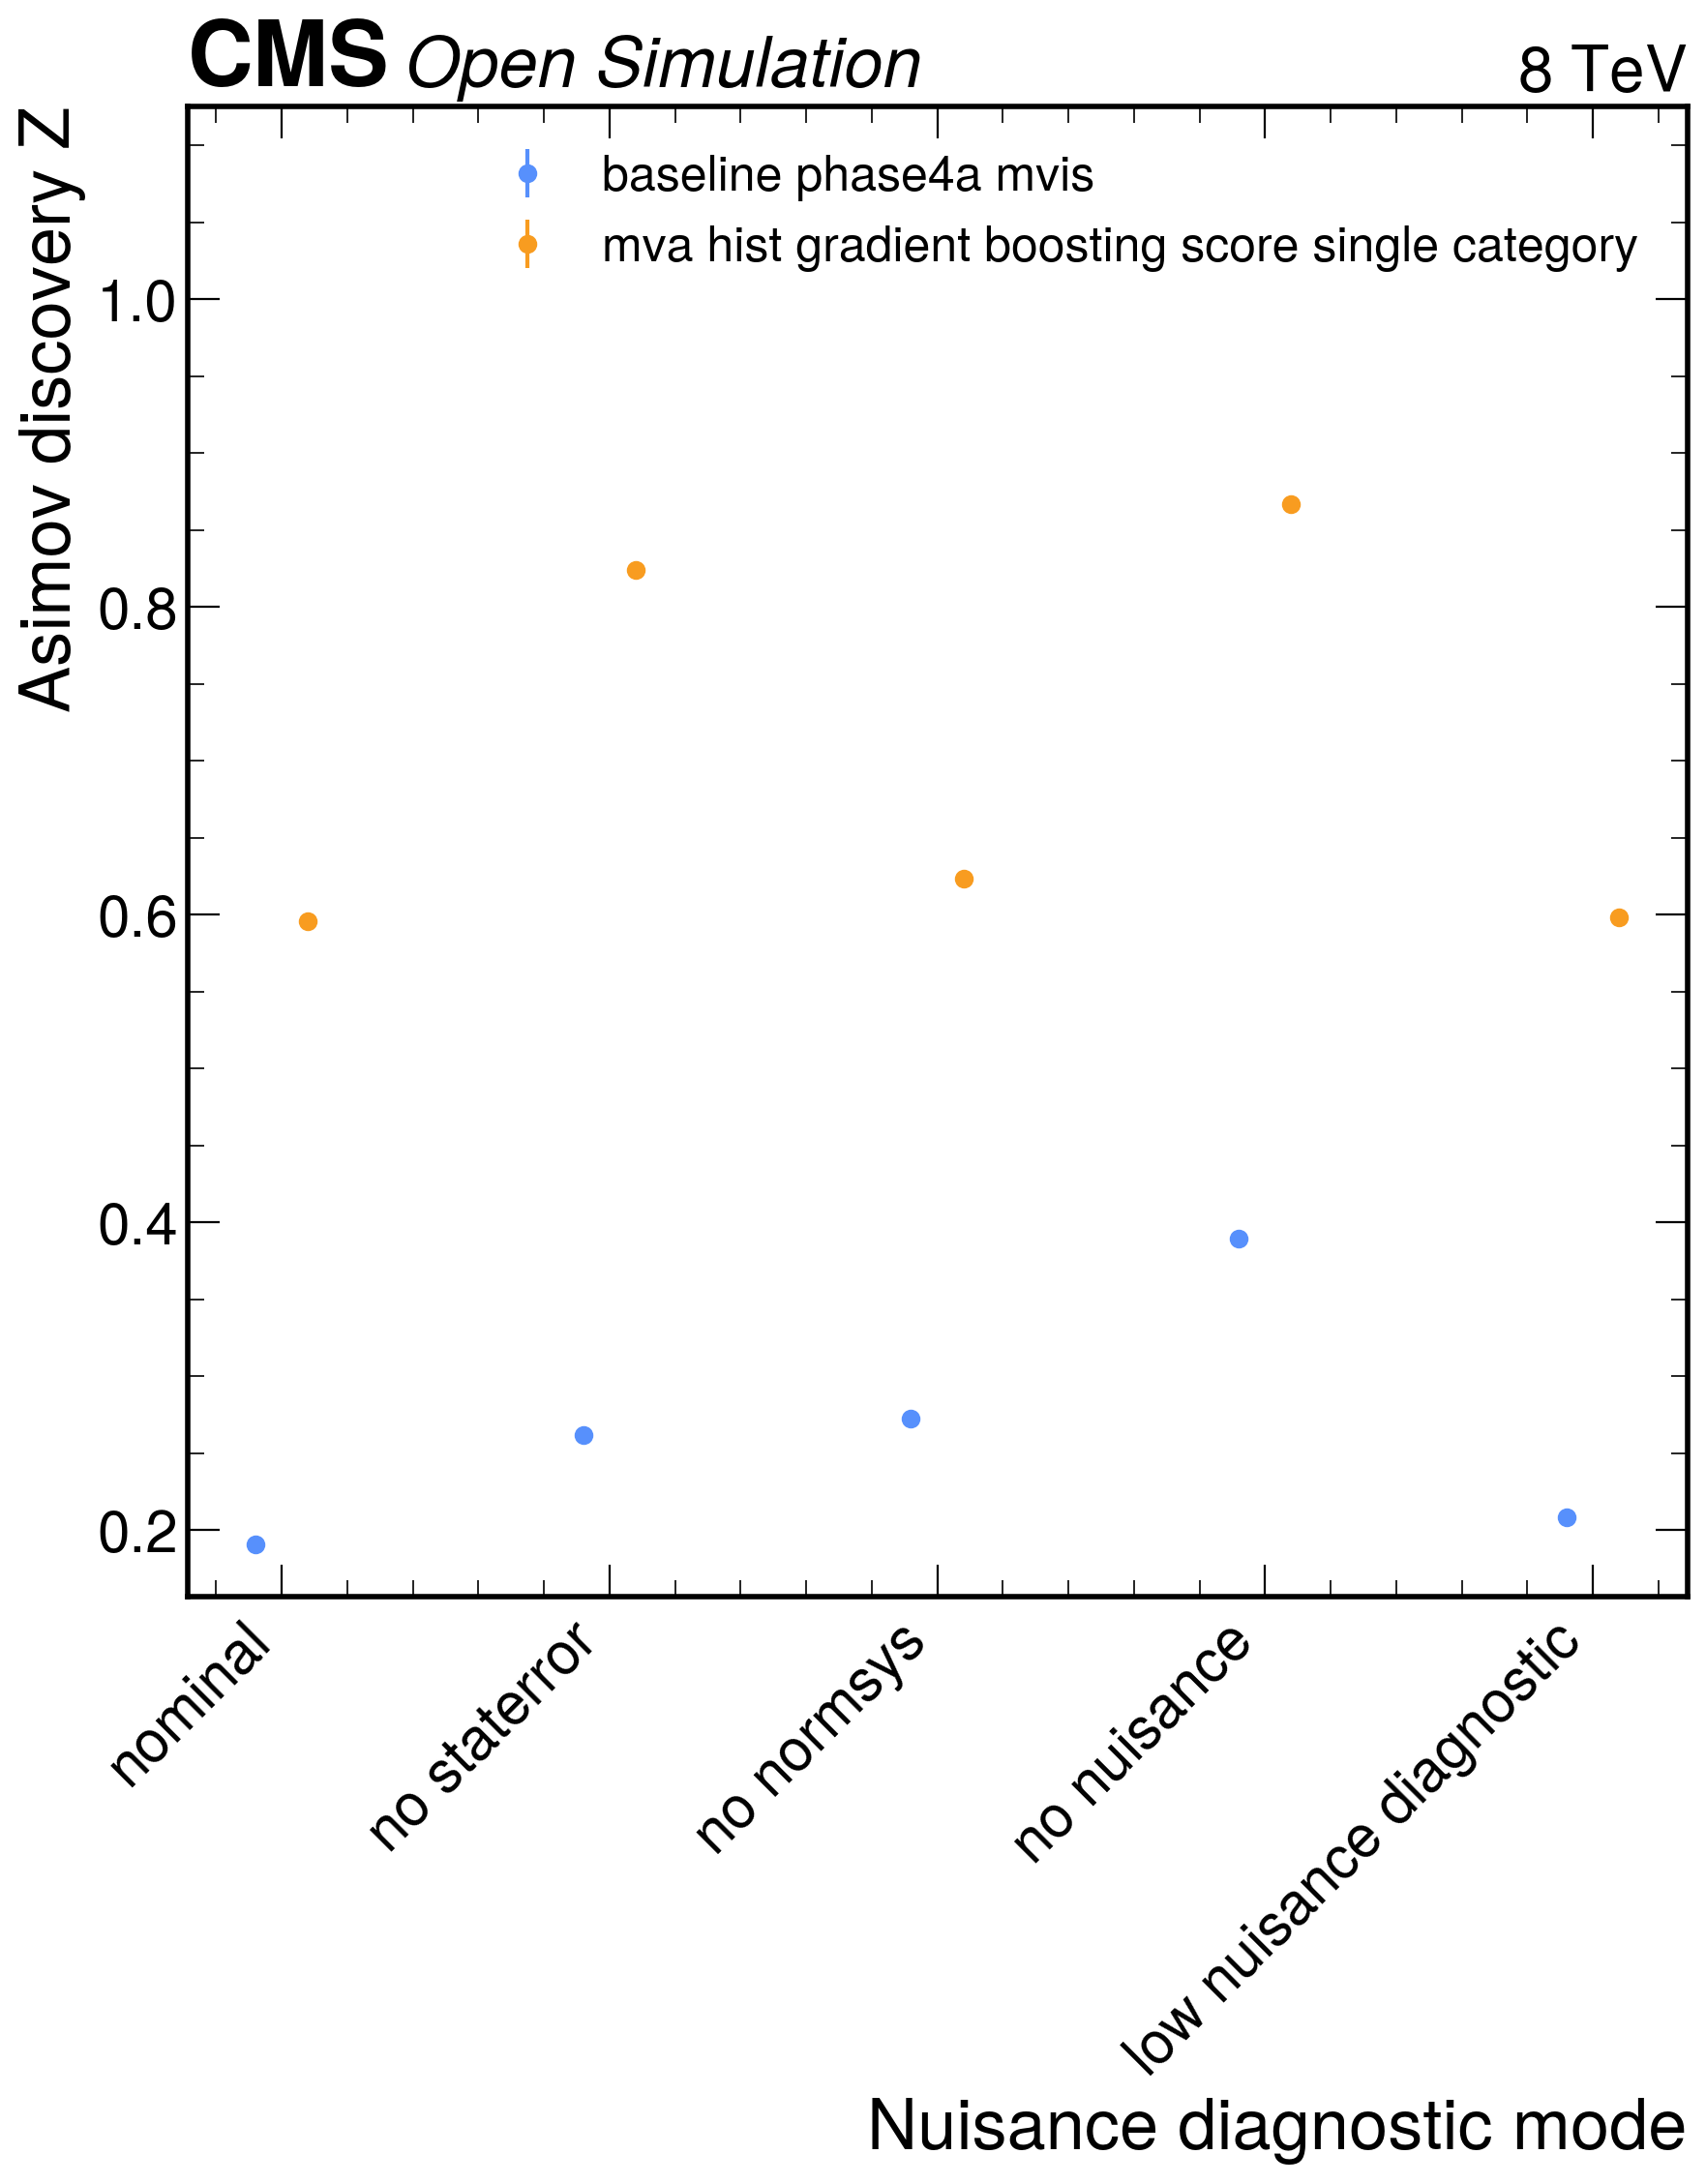
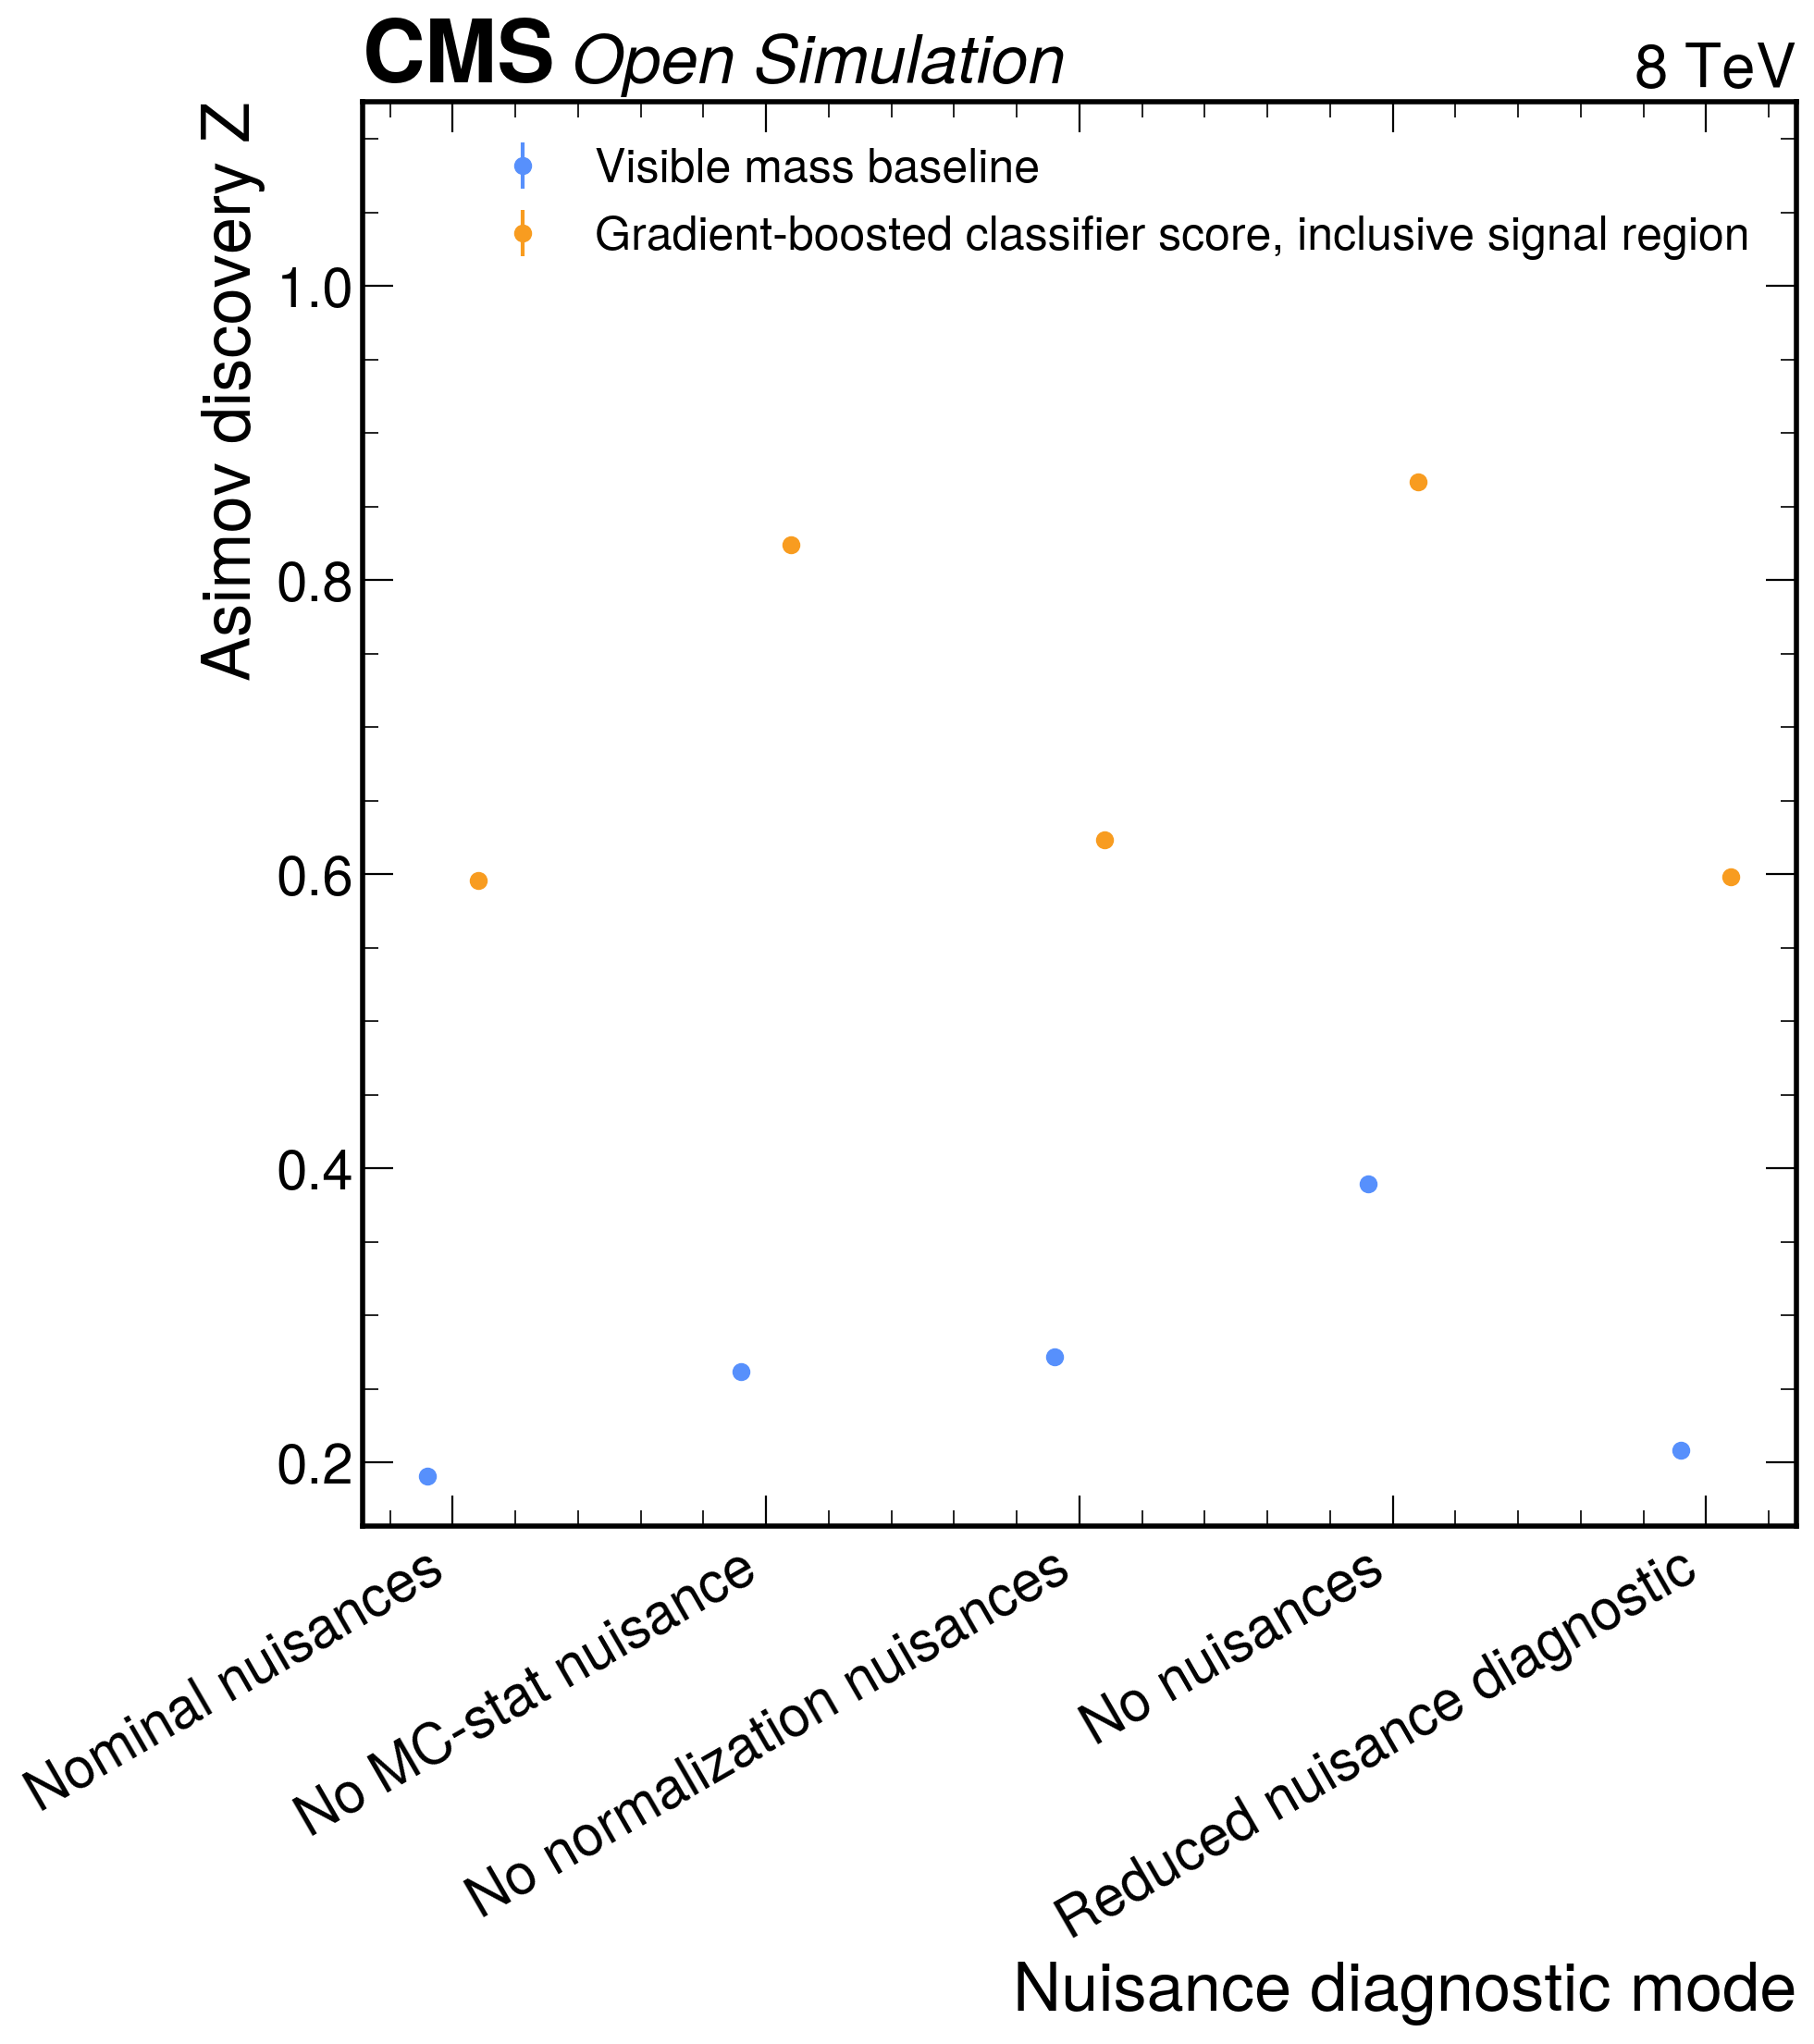
fix(phase3): polish sensitivity figures

diff --git a/phase3_selection/src/sensitivity_regression.py b/phase3_selection/src/sensitivity_regression.py
@@ -68,6 +68,19 @@ MVA_INPUTS = [
     "btag_max",
 ]
 
+MODEL_DISPLAY_LABELS = {
+    "hist_gradient_boosting": "Gradient-boosted classifier",
+    "mlp": "Neural-network classifier",
+}
+
+NUISANCE_DISPLAY_LABELS = {
+    "nominal": "Nominal nuisances",
+    "no_staterror": "No MC-stat nuisance",
+    "no_normsys": "No normalization nuisances",
+    "no_nuisance": "No nuisances",
+    "low_nuisance_diagnostic": "Reduced nuisance diagnostic",
+}
+
 
 @dataclass(frozen=True)
 class ModelSpec:
@@ -128,6 +141,42 @@ def weighted_hist(values: np.ndarray, event_weight: float, bins: np.ndarray) -> 
 
 def sanitize_category(name: str) -> str:
     return name.replace("-", "_").replace("/", "_")
+
+
+def model_display_label(name: str) -> str:
+    return MODEL_DISPLAY_LABELS.get(name, name.replace("_", " ").title())
+
+
+def spec_display_label(name: str) -> str:
+    if name == "baseline_phase4a_mvis":
+        return "Visible mass baseline"
+    if name == "baseline_addmet":
+        return "Add-MET mass baseline"
+    if name == "baseline_pt_tautau_proxy":
+        return "pT(tau tau) proxy baseline"
+    if name == "jhep_refined_mvis":
+        return "Boosted/VBF refined categories"
+    if name.startswith("mva_") and name.endswith("_score_baseline_categories"):
+        model_name = name.removeprefix("mva_").removesuffix("_score_baseline_categories")
+        return f"{model_display_label(model_name)} score, baseline categories"
+    if name.startswith("mva_") and name.endswith("_score_single_category"):
+        model_name = name.removeprefix("mva_").removesuffix("_score_single_category")
+        return f"{model_display_label(model_name)} score, inclusive signal region"
+    if name.startswith("grid_"):
+        rest = name.removeprefix("grid_mjj")
+        try:
+            mjj_cut, rest = rest.split("_deta", maxsplit=1)
+            detajj_cut, pttt_cut = rest.split("_pt", maxsplit=1)
+            return f"Dijet/boost scan, {mjj_cut} GeV, separation {detajj_cut}, boost pT {pttt_cut} GeV"
+        except ValueError:
+            return "Dijet/boost category scan"
+    if name.startswith("btag_veto_le") and name.endswith("_split"):
+        threshold = name.removeprefix("btag_veto_le").removesuffix("_split")
+        return f"Top-veto scan, max b tag <= {threshold}"
+    if name.startswith("taupt_split_"):
+        threshold = name.removeprefix("taupt_split_")
+        return f"Tau pT scan, threshold {threshold} GeV"
+    return name.replace("_", " ").title()
 
 
 def assign_baseline(selected: dict[str, np.ndarray]) -> np.ndarray:
@@ -793,21 +842,22 @@ def label(ax: plt.Axes, llabel: str = "Open Simulation") -> None:
 
 def plot_variant_summary(results: list[dict[str, Any]]) -> None:
     valid = [row for row in results if rank_key(row) >= 0]
-    top = sorted(valid, key=rank_key, reverse=True)[:12]
-    names = [row["spec"]["name"].replace("_", " ") for row in top]
+    top = sorted(valid, key=rank_key, reverse=True)[:10]
+    names = [spec_display_label(row["spec"]["name"]) for row in top]
     values = [rank_key(row) for row in top]
-    x = np.arange(len(top))
+    y = np.arange(len(top))
     fig, ax = plt.subplots(figsize=(10, 10))
-    ax.errorbar(x, values, yerr=np.zeros(len(values)), marker="o", linestyle="", color="tab:blue", label="Variant")
-    ax.axhline(0.1906097504953417, color="tab:red", linestyle="--", label="Phase 4a baseline")
-    ax.set_xticks(x)
-    ax.set_xticklabels(names, rotation=90)
-    ax.set_xlabel("Expected-only variant")
-    ax.set_ylabel("Asimov discovery Z")
-    ax.legend(fontsize="x-small", loc="upper right")
-    ymin, ymax = ax.get_ylim()
-    if ymax > ymin:
-        ax.set_ylim(ymin, ymax * 1.25)
+    ax.errorbar(values, y, xerr=np.zeros(len(values)), marker="o", linestyle="", color="tab:blue", label="Variant")
+    ax.axvline(0.1906097504953417, color="tab:red", linestyle="--", label="Phase 4a baseline")
+    ax.set_yticks(y)
+    ax.set_yticklabels(names)
+    ax.invert_yaxis()
+    ax.set_xlabel("Asimov discovery Z")
+    ax.set_ylabel("Expected-only variant")
+    ax.legend(fontsize="x-small", loc="lower right")
+    xmin, xmax = ax.get_xlim()
+    if xmax > xmin:
+        ax.set_xlim(xmin, xmax * 1.10)
     label(ax)
     save_figure(fig, "sensitivity_variant_summary")
 
@@ -826,10 +876,10 @@ def plot_nuisance_audit(payload: dict[str, Any]) -> None:
             yerr=np.zeros(len(values)),
             marker="o",
             linestyle="",
-            label=row["model"].replace("_", " "),
+            label=spec_display_label(row["model"]),
         )
     ax.set_xticks(x)
-    ax.set_xticklabels([mode.replace("_", " ") for mode in modes], rotation=45, ha="right")
+    ax.set_xticklabels([NUISANCE_DISPLAY_LABELS[mode] for mode in modes], rotation=30, ha="right")
     ax.set_xlabel("Nuisance diagnostic mode")
     ax.set_ylabel("Asimov discovery Z")
     ax.legend(fontsize="x-small", loc="upper right")
@@ -871,13 +921,13 @@ def plot_mva_scores(selected: dict[str, np.ndarray], scores: dict[str, np.ndarra
             label=role.title(),
             color=color,
         )
-    ax.set_xlabel("HistGradientBoosting score")
+    ax.set_xlabel("Gradient-boosted classifier score")
     ax.set_ylabel("Expected events")
     ax.set_yscale("log")
-    ax.legend(fontsize="x-small", loc="upper left")
     ymin, ymax = ax.get_ylim()
     if ymax > ymin:
-        ax.set_ylim(max(ymin, 1e-3), ymax * 2.0)
+        ax.set_ylim(max(ymin, 1e-3), ymax * 3.0)
+    ax.legend(fontsize="x-small", loc="upper left", bbox_to_anchor=(1.02, 1.0), borderaxespad=0.0)
     label(ax)
     save_figure(fig, "mva_score_templates")
 
@@ -930,7 +980,25 @@ two expected-only classifiers. Machine-readable results are written to
 `sensitivity_recommendation.json`, `sensitivity_selected_events.npz`, and
 `missing_component_feasibility.json`.
 
-The best expected-only variant is `{best_summary['name']}` with Asimov
+![Expected-only sensitivity variant summary. This figure ranks the strongest
+selection, category, observable, and classifier variants by Asimov discovery
+sensitivity using only simulated signal and background templates. The dashed
+reference line is the Phase 4a visible-mass baseline, so the comparison is an
+optimization diagnostic and not an observed-data result.](figures/sensitivity_variant_summary.pdf){{#fig:p3-sensitivity-variant-summary}}
+
+![Gradient-boosted classifier score templates. The figure shows the expected
+signal and background score distributions in the signal region after applying
+the official Open Data normalization inputs. The classifier was trained only on
+MC, and Phase 4b must validate the score modelling before this expected-only
+gain can be promoted as a primary result.](figures/mva_score_templates.pdf){{#fig:p3-mva-score-templates}}
+
+![Sensitivity nuisance diagnostic. The figure compares the visible-mass
+baseline and the strongest classifier-score candidate under nominal, reduced,
+and removed nuisance-parameter configurations. These curves are diagnostic
+stress tests of the expected model only; configurations with removed or
+reduced nuisances are not final statistical results.](figures/sensitivity_nuisance_audit.pdf){{#fig:p3-sensitivity-nuisance-audit}}
+
+The best expected-only variant is the {spec_display_label(best_summary['name'])} with Asimov
 discovery `Z = {best_summary['z_value']:.3f}`. Its median expected CLs limit is
 `{best_summary['median_limit']:.3f}` where evaluated. Relative to the Phase 4a
 baseline this is a `Z` improvement factor of

diff --git a/phase3_selection/logs/fixer_plot_labels_20260602T143408Z.md b/phase3_selection/logs/fixer_plot_labels_20260602T143408Z.md
@@ -1,0 +1,36 @@
+# Phase 3 Plot-Label Fixer
+
+## 2026-06-02T14:34:08Z
+
+Read `agents/fixer.md` and the failed plot-validation report
+`phase3_selection/review/validation/phase3_plot_validation_sensitivity_20260602T142729Z.md`.
+
+Findings to resolve:
+
+- Category A: sensitivity figures expose internal model/config labels.
+- Category A: `mva_score_templates` legend overlaps plotted background content.
+- Category B: `SELECTION.md` does not reference the three new sensitivity figures.
+
+Planned minimum fix:
+
+- Add display-label helpers in `phase3_selection/src/sensitivity_regression.py`
+  for plotted variant names, nuisance modes, model labels, and classifier-score
+  axes without changing model keys or statistical results.
+- Move the classifier-score legend outside the axes and add headroom.
+- Regenerate the existing Phase 3 sensitivity outputs, then verify plots,
+  markdown references, and whitespace.
+
+## 2026-06-02T14:40:30Z
+
+Resolved the Category A label findings by adding explicit display labels for
+model variants, nuisance modes, and the classifier score axis. Resolved the
+classifier-score legend overlap by placing the legend outside the plotting
+area and increasing y-axis headroom. Resolved the Category B artifact finding
+by adding all three sensitivity figures to `SELECTION.md` with interpretive
+expected-only captions.
+
+Regenerated `phase3-sensitivity`; the sensitivity JSON checksums matched the
+pre-run values exactly. Neighborhood check: visually inspected
+`mva_score_templates`, `sensitivity_variant_summary`, and
+`sensitivity_nuisance_audit`; rerendered the variant summary from existing JSON
+after compacting labels to avoid tick-label collision.

diff --git a/phase3_selection/outputs/SELECTION.md b/phase3_selection/outputs/SELECTION.md
@@ -394,7 +394,25 @@ two expected-only classifiers. Machine-readable results are written to
 `sensitivity_recommendation.json`, `sensitivity_selected_events.npz`, and
 `missing_component_feasibility.json`.
 
-The best expected-only variant is `mva_hist_gradient_boosting_score_single_category` with Asimov
+![Expected-only sensitivity variant summary. This figure ranks the strongest
+selection, category, observable, and classifier variants by Asimov discovery
+sensitivity using only simulated signal and background templates. The dashed
+reference line is the Phase 4a visible-mass baseline, so the comparison is an
+optimization diagnostic and not an observed-data result.](figures/sensitivity_variant_summary.pdf){#fig:p3-sensitivity-variant-summary}
+
+![Gradient-boosted classifier score templates. The figure shows the expected
+signal and background score distributions in the signal region after applying
+the official Open Data normalization inputs. The classifier was trained only on
+MC, and Phase 4b must validate the score modelling before this expected-only
+gain can be promoted as a primary result.](figures/mva_score_templates.pdf){#fig:p3-mva-score-templates}
+
+![Sensitivity nuisance diagnostic. The figure compares the visible-mass
+baseline and the strongest classifier-score candidate under nominal, reduced,
+and removed nuisance-parameter configurations. These curves are diagnostic
+stress tests of the expected model only; configurations with removed or
+reduced nuisances are not final statistical results.](figures/sensitivity_nuisance_audit.pdf){#fig:p3-sensitivity-nuisance-audit}
+
+The best expected-only variant is the Gradient-boosted classifier score, inclusive signal region with Asimov
 discovery `Z = 0.596`. Its median expected CLs limit is
 `3.977` where evaluated. Relative to the Phase 4a
 baseline this is a `Z` improvement factor of

diff --git a/experiment_log.md b/experiment_log.md
@@ -324,3 +324,12 @@ Phase 4a expected-only model built from Phase 3 selected MC using official Open 
 ## 2026-06-02T14:15:07Z
 
 Phase 3 sensitivity regression fixer ran expected-only category, observable, MVA, nuisance, and missing-component scans. Best variant `mva_hist_gradient_boosting_score_single_category` reached Z=0.596 versus Phase 4a baseline Z=0.191; see `phase3_selection/outputs/sensitivity_recommendation.json`.
+
+## 2026-06-02T14:34:08Z
+
+Phase 3 plot-label fixer addressed the sensitivity plot validation failure by
+replacing raw/internal plotted labels with display labels, moving the
+gradient-boosted classifier score legend out of the plotted data region, and
+adding the three sensitivity figures to `SELECTION.md` with expected-only
+interpretive captions. Physics logic, MVA training, scores, and sensitivity
+ranking were intentionally left unchanged.

diff --git a/phase3_selection/logs/fixer_sensitivity_20260602T134700Z.md b/phase3_selection/logs/fixer_sensitivity_20260602T134700Z.md
@@ -42,3 +42,11 @@ Started expected-only sensitivity regression scan.
 ## 2026-06-02T14:18:13Z
 
 Completed scan over 78 expected-only variants. Best variant `mva_hist_gradient_boosting_score_single_category` reached Z=0.596, median limit=3.977.
+
+## 2026-06-02T14:34:45Z
+
+Started expected-only sensitivity regression scan.
+
+## 2026-06-02T14:36:37Z
+
+Completed scan over 78 expected-only variants. Best variant `mva_hist_gradient_boosting_score_single_category` reached Z=0.596, median limit=3.977.